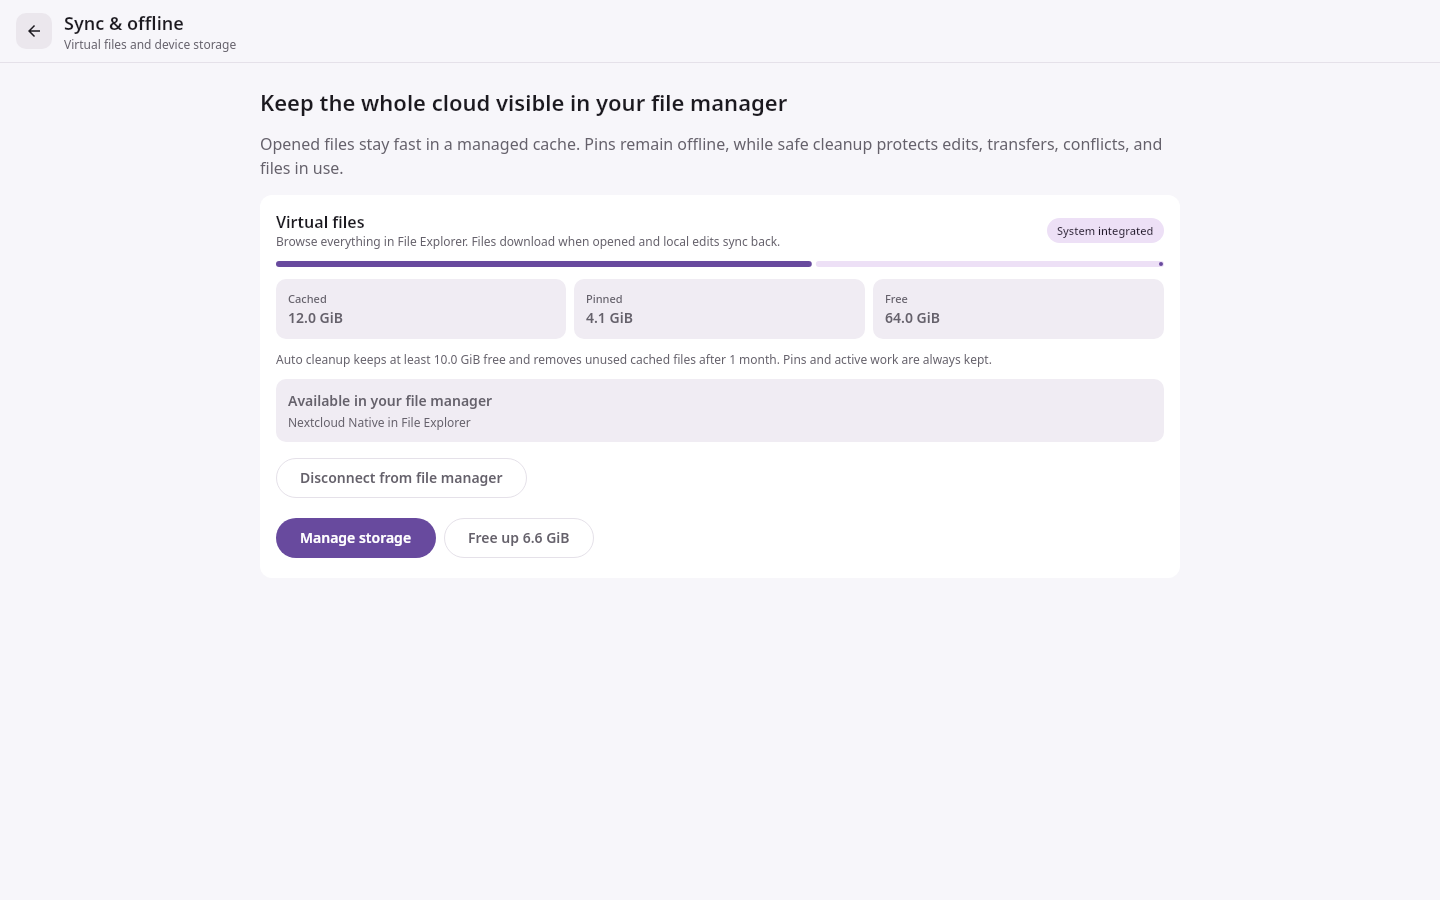
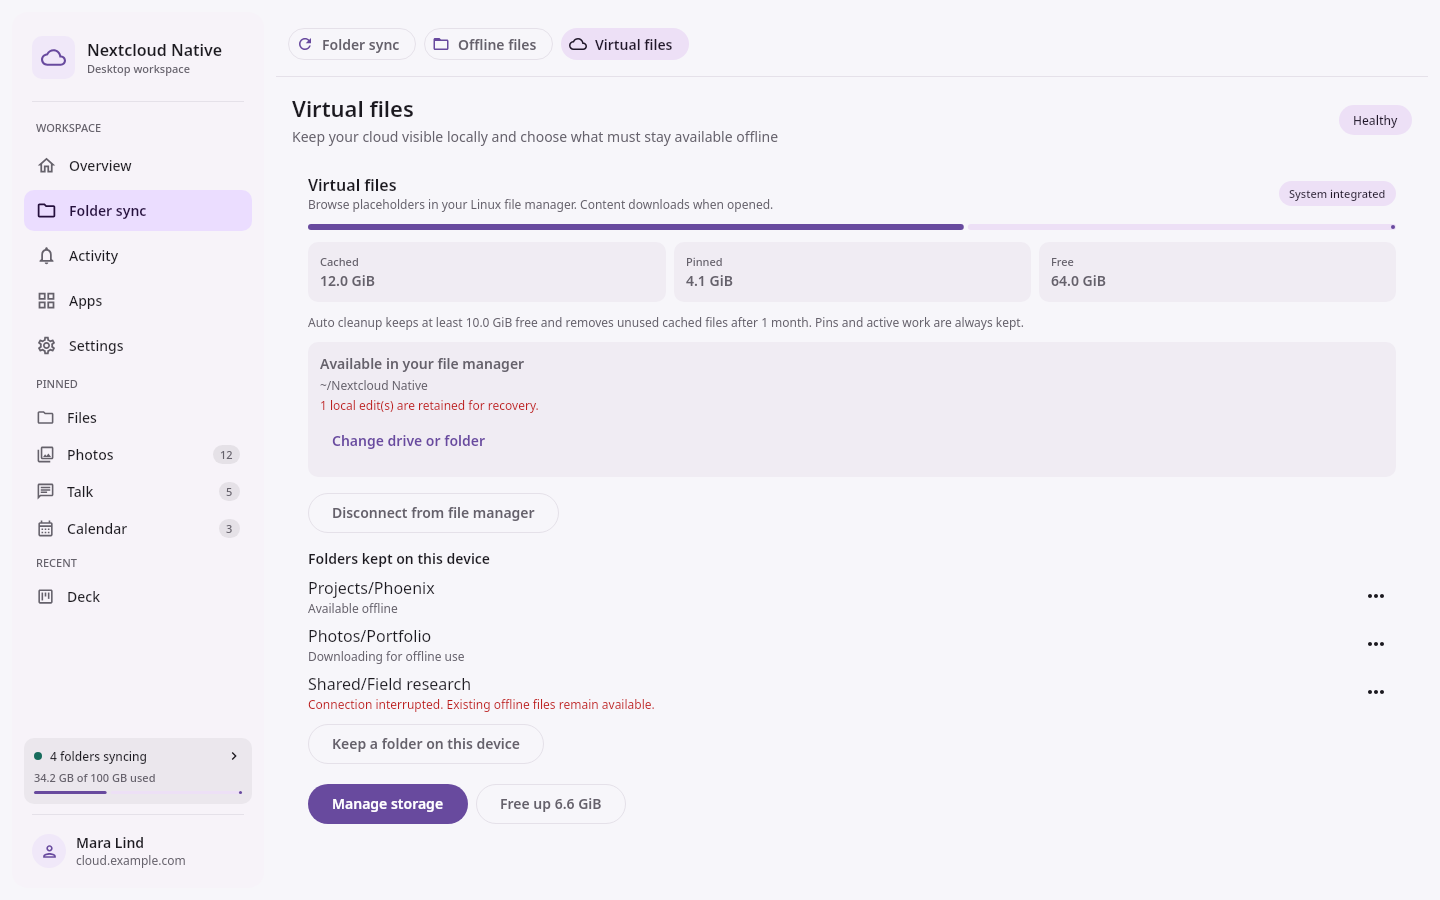
feat(ui): integrate selective virtual files workspace

diff --git a/ui/src/commonMain/kotlin/dev/obiente/nextcloudnative/app/MarketingCaptureScenarios.kt b/ui/src/commonMain/kotlin/dev/obiente/nextcloudnative/app/MarketingCaptureScenarios.kt
@@ -11,6 +11,7 @@ import androidx.compose.foundation.layout.heightIn
 import androidx.compose.foundation.layout.padding
 import androidx.compose.foundation.layout.widthIn
 import androidx.compose.foundation.lazy.LazyColumn
+import androidx.compose.foundation.shape.RoundedCornerShape
 import androidx.compose.material3.HorizontalDivider
 import androidx.compose.material3.MaterialTheme
 import androidx.compose.material3.Surface
@@ -1832,34 +1833,50 @@ internal fun MarketingVirtualFileStorageMobileScenario() {
 
 @Composable
 internal fun MarketingVirtualFileStorageDesktopScenario() {
-    Column(modifier = Modifier.fillMaxSize()) {
-        ScreenHeader(
-            title = "Sync & offline",
-            subtitle = "Virtual files and device storage",
-            onBack = {},
-        )
-        Box(
-            modifier = Modifier.fillMaxSize().padding(NextcloudSpacing.XLarge),
-            contentAlignment = Alignment.TopCenter,
-        ) {
+    NextcloudDesktopShell(
+        selected = NextcloudDestination.FolderSync,
+        onSelected = {},
+        identity = marketingDesktopIdentity(),
+    ) {
+        Column(modifier = Modifier.fillMaxSize()) {
+            FileOfflineWorkspaceTabs(
+                selected = FileOfflineWorkspaceSection.VirtualFiles,
+                onSelected = {},
+            )
+            HorizontalDivider(color = MaterialTheme.colorScheme.outlineVariant)
             Column(
-                modifier = Modifier.widthIn(max = 920.dp).fillMaxWidth(),
-                verticalArrangement = Arrangement.spacedBy(NextcloudSpacing.Large),
+                modifier = Modifier.fillMaxSize().padding(NextcloudSpacing.Large),
+                verticalArrangement = Arrangement.spacedBy(NextcloudSpacing.Medium),
             ) {
-                Text(
-                    "Keep the whole cloud visible in your file manager",
-                    style = MaterialTheme.typography.headlineSmall,
-                )
-                Text(
-                    "Opened files stay fast in a managed cache. Pins remain offline, while safe " +
-                        "cleanup protects edits, transfers, conflicts, and files in use.",
-                    style = MaterialTheme.typography.bodyLarge,
-                    color = MaterialTheme.colorScheme.onSurfaceVariant,
-                )
+                Row(
+                    modifier = Modifier.fillMaxWidth(),
+                    horizontalArrangement = Arrangement.SpaceBetween,
+                    verticalAlignment = Alignment.CenterVertically,
+                ) {
+                    Column(verticalArrangement = Arrangement.spacedBy(NextcloudSpacing.XSmall)) {
+                        Text("Virtual files", style = MaterialTheme.typography.headlineSmall)
+                        Text(
+                            "Keep your cloud visible locally and choose what must stay available offline",
+                            style = MaterialTheme.typography.bodyMedium,
+                            color = MaterialTheme.colorScheme.onSurfaceVariant,
+                        )
+                    }
+                    Surface(
+                        color = MaterialTheme.colorScheme.secondaryContainer,
+                        shape = RoundedCornerShape(999.dp),
+                    ) {
+                        Text(
+                            "Healthy",
+                            modifier = Modifier.padding(horizontal = 14.dp, vertical = 7.dp),
+                            style = MaterialTheme.typography.labelMedium,
+                            color = MaterialTheme.colorScheme.onSecondaryContainer,
+                        )
+                    }
+                }
                 VirtualFileStorageCard(
                     snapshot = marketingVirtualFileStorageSnapshot(
                         support = VirtualFileStorageSupport.Available,
-                        integration = VirtualFilePlatformIntegration.WindowsCloudFiles,
+                        integration = VirtualFilePlatformIntegration.LinuxFilesystemMount,
                     ),
                     loading = false,
                     busy = false,
@@ -1905,6 +1922,42 @@ private fun marketingVirtualFileStorageSnapshot(
         VirtualFilePlatformIntegration.AppleFileProvider -> "Files / Nextcloud Native"
         VirtualFilePlatformIntegration.InAppOnDemandCache -> null
     },
+    providerLocationConfiguration = if (integration == VirtualFilePlatformIntegration.LinuxFilesystemMount) {
+        VirtualFileProviderLocation("Home folder", "Nextcloud Native")
+    } else {
+        null
+    },
+    providerLocationCanChange = integration == VirtualFilePlatformIntegration.LinuxFilesystemMount,
+    folderRetentionRules = if (integration == VirtualFilePlatformIntegration.LinuxFilesystemMount) {
+        listOf(
+            VirtualFolderRetentionRule("Projects/Phoenix", VirtualFolderRetention.KeepOnDevice),
+            VirtualFolderRetentionRule("Photos/Portfolio", VirtualFolderRetention.KeepOnDevice),
+            VirtualFolderRetentionRule("Shared/Field research", VirtualFolderRetention.KeepOnDevice),
+        )
+    } else {
+        emptyList()
+    },
+    folderHydrationStatuses = if (integration == VirtualFilePlatformIntegration.LinuxFilesystemMount) {
+        listOf(
+            VirtualFolderHydrationStatus(
+                relativePath = "Projects/Phoenix",
+                phase = VirtualFolderHydrationPhase.AvailableOffline,
+                verifiedAtEpochMillis = 1,
+            ),
+            VirtualFolderHydrationStatus(
+                relativePath = "Photos/Portfolio",
+                phase = VirtualFolderHydrationPhase.Downloading,
+            ),
+            VirtualFolderHydrationStatus(
+                relativePath = "Shared/Field research",
+                phase = VirtualFolderHydrationPhase.Failed,
+                detail = "Connection interrupted. Existing offline files remain available.",
+            ),
+        )
+    } else {
+        emptyList()
+    },
+    pendingWritebackCount = if (integration == VirtualFilePlatformIntegration.LinuxFilesystemMount) 1 else 0,
 )
 
 @Composable
